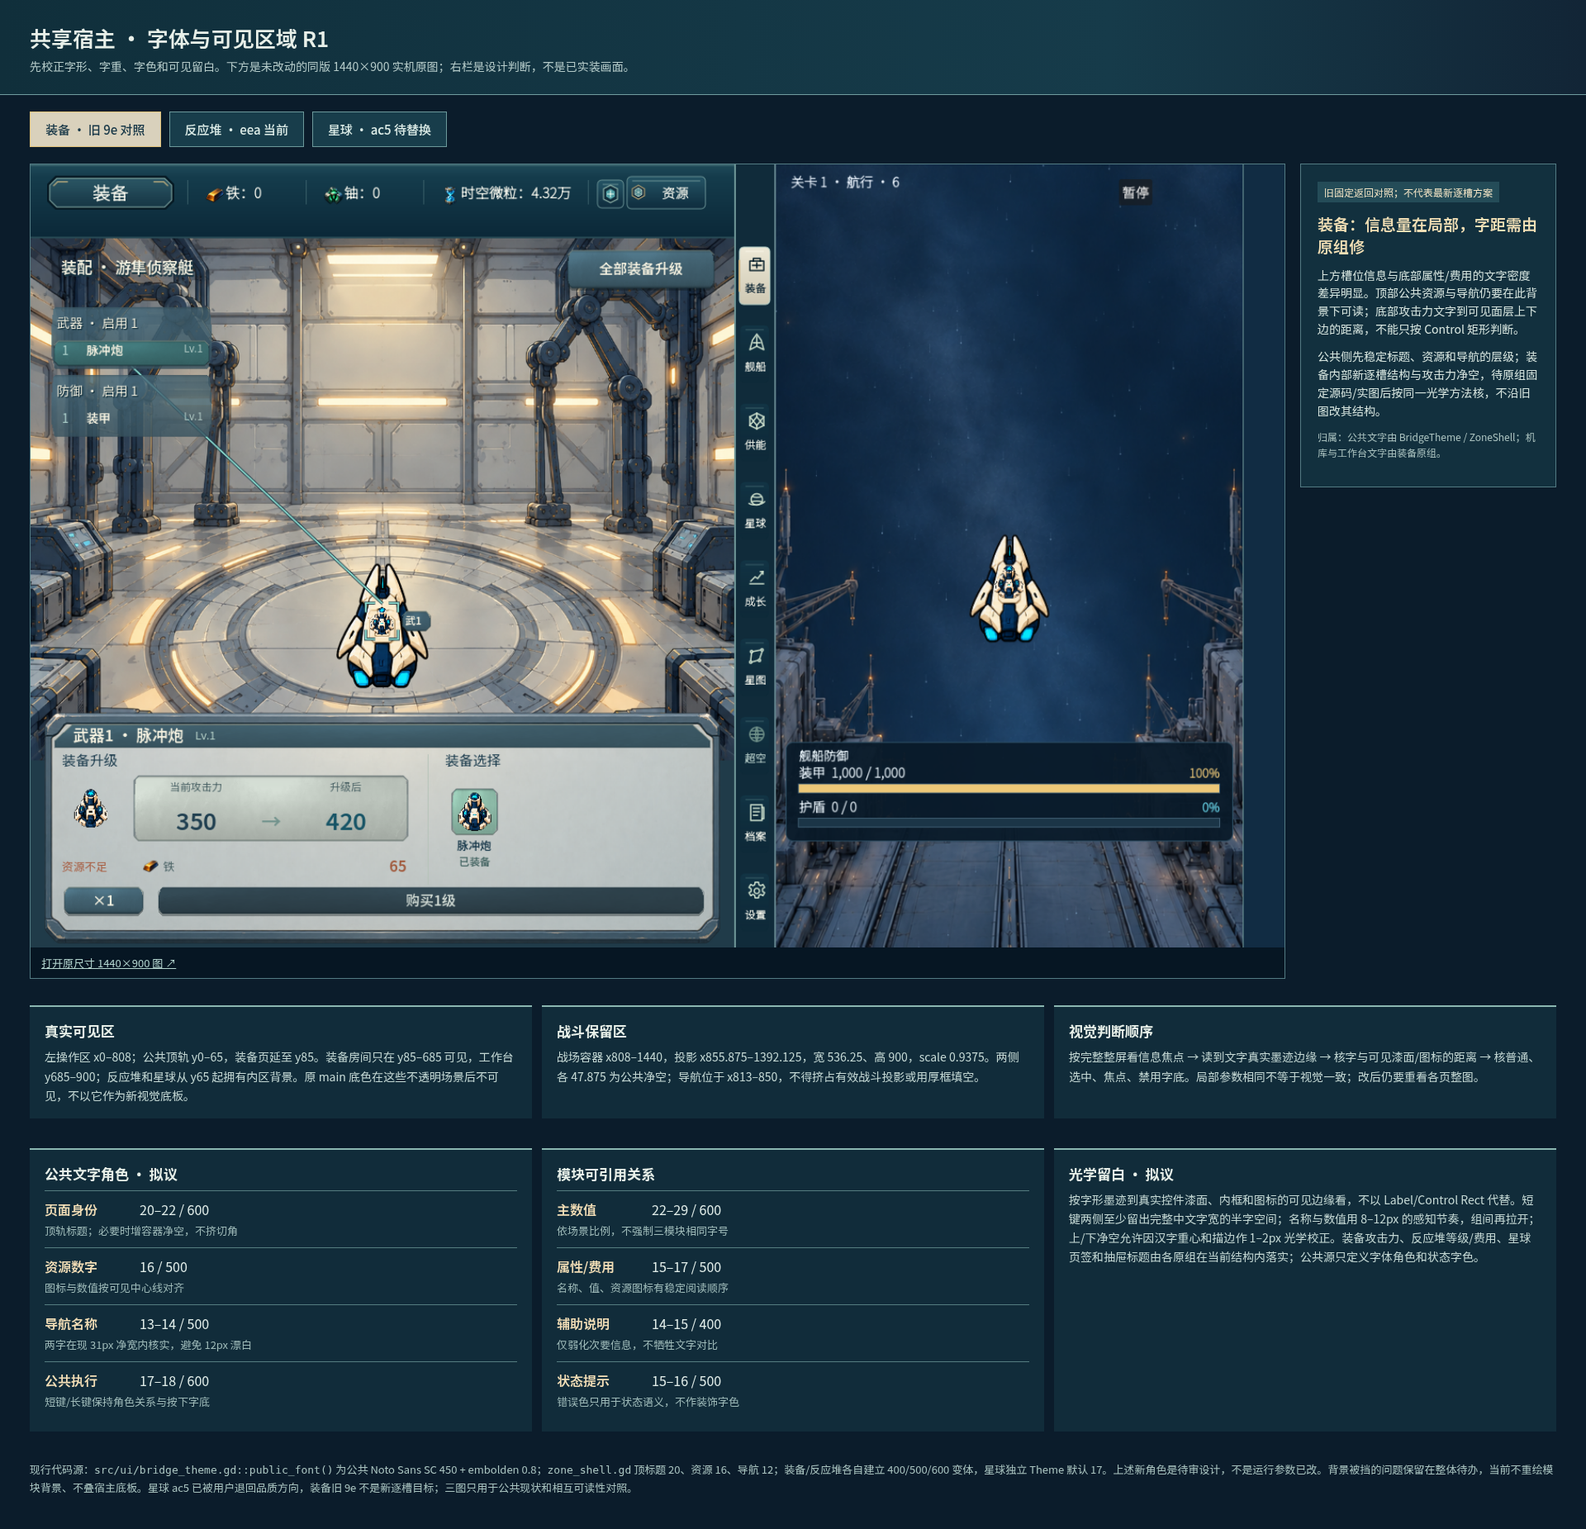
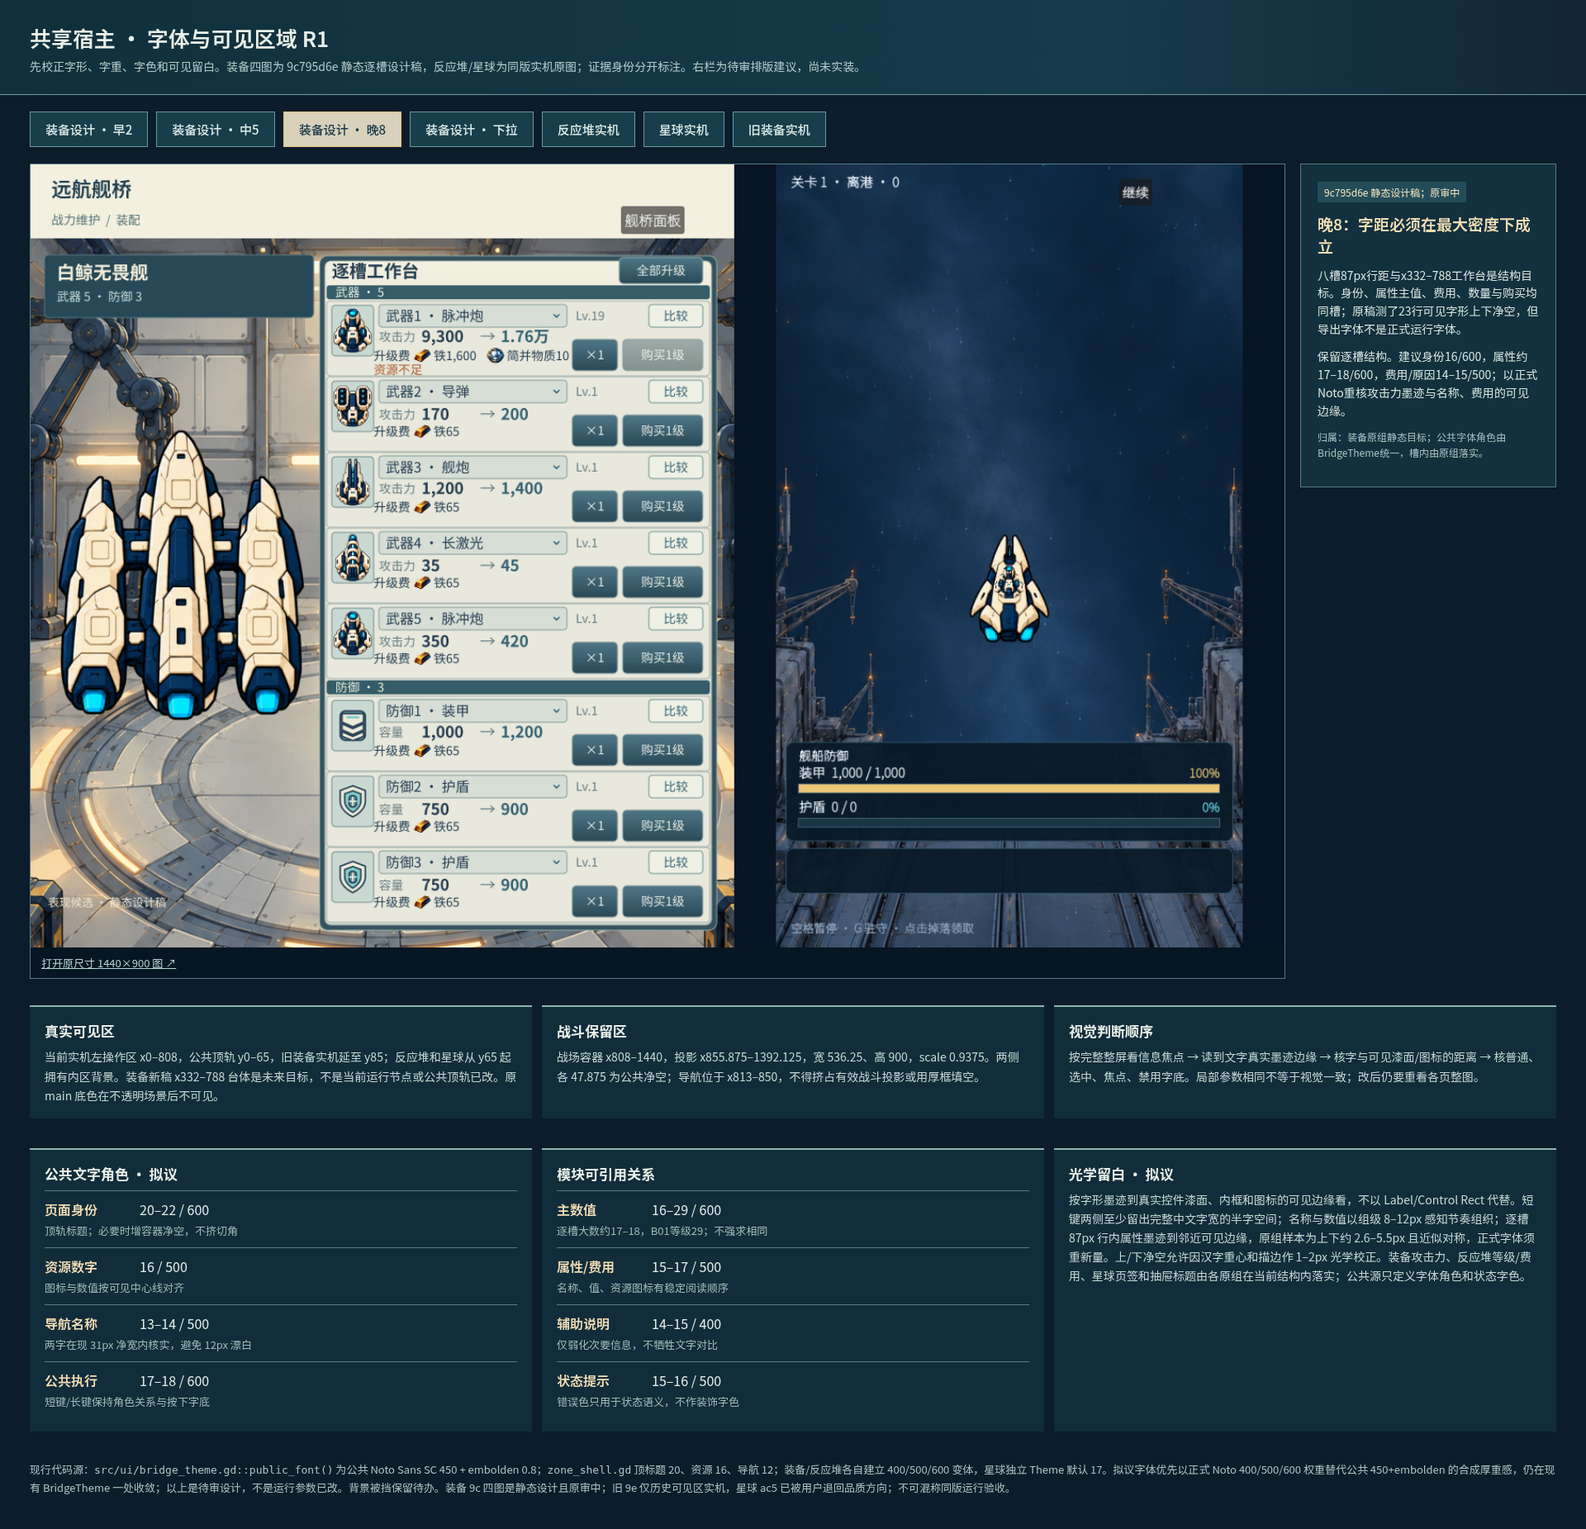
Reference current slot workbench design in typography study

diff --git a/space-battleship/docs/ui-redesign-plan/shared-host-shell/runtime-clear-zone/evidence/typography-visible-area-r1.html b/space-battleship/docs/ui-redesign-plan/shared-host-shell/runtime-clear-zone/evidence/typography-visible-area-r1.html
@@ -4,14 +4,22 @@
 <style>
 @font-face{font-family:SC;src:url('../../../../../assets/fonts/NotoSansSC.ttf')}*{box-sizing:border-box}body{margin:0;background:#0b1c2b;color:#e8f0e9;font-family:SC,'Noto Sans SC',sans-serif}header{padding:27px 36px 22px;background:linear-gradient(90deg,#102f3b,#163b4a 70%,#122536);border-bottom:1px solid #719da0}h1{font-size:26px;font-weight:600;margin:0 0 6px}p{margin:0;line-height:1.55}.sub{color:#b5cbc9;font-size:14px}.tabs{display:flex;gap:10px;padding:20px 36px 10px}.tabs button{font:500 15px SC,sans-serif;color:#dcece7;background:#183d4b;border:1px solid #6c999b;padding:10px 18px;cursor:pointer}.tabs button[aria-selected=true]{background:#d9d1bc;color:#173747;border-color:#e3c37a}.wrap{display:grid;grid-template-columns:minmax(580px,1fr) 310px;gap:18px;padding:10px 36px 32px}.screen{background:#061623;border:1px solid #537b83;min-width:0}.screen img{width:100%;height:auto;display:block}.screen a{display:block;color:#b5d6d0;padding:9px 13px;font-size:13px}.side{background:#12303e;border:1px solid #537b83;padding:20px;align-self:start}.side h2{font-size:19px;margin:0 0 12px;font-weight:600;color:#f2dfb5}.side p{font-size:14px;color:#d7e5df;margin:0 0 12px}.side .small{font-size:12px;color:#aac2bf}.tag{display:inline-block;background:#244c58;color:#f1e3c4;padding:4px 8px;margin-bottom:12px;font-size:12px}.grid{display:grid;grid-template-columns:repeat(3,minmax(0,1fr));gap:12px;margin:0 36px 36px}.card{background:#112c3a;border-top:2px solid #8bb7b1;padding:16px 18px}.card h3{font-size:17px;margin:0 0 8px}.card p{font-size:14px;color:#c4d8d4;line-height:1.65}.role{border-top:1px solid #557d80;padding:10px 0}.role b{display:inline-block;width:115px;font-weight:600;color:#f4dfb7}.role span{color:#e2eeea}.role em{font-style:normal;color:#9fbbb9;font-size:13px}.foot{margin:0 36px 40px;color:#aac4c0;font-size:13px;line-height:1.6}a{color:#b5d6d0}@media(max-width:1020px){.wrap{grid-template-columns:1fr}.grid{grid-template-columns:1fr}.side{order:2}}
 </style>
-<header><h1>共享宿主 · 字体与可见区域 R1</h1><p class="sub">先校正字形、字重、字色和可见留白。下方是未改动的同版 1440×900 实机原图；右栏是设计判断，不是已实装画面。</p></header>
-<nav class="tabs"><button data-view="equipment" aria-selected="true">装备 · 旧 9e 对照</button><button data-view="reactor">反应堆 · eea 当前</button><button data-view="planet">星球 · ac5 待替换</button></nav>
-<div class="wrap"><div class="screen"><img id="shot" src="eea-combo-equipment-1440x900.png" width="1440" height="900" alt="装备页完整实机图"><a id="open" href="eea-combo-equipment-1440x900.png" target="_blank">打开原尺寸 1440×900 图 ↗</a></div><aside class="side"><span class="tag" id="status">旧固定返回对照；不代表最新逐槽方案</span><h2 id="heading">装备：信息量在局部，字距需由原组修</h2><p id="observation">上方槽位信息与底部属性/费用的文字密度差异明显。顶部公共资源与导航仍要在此背景下可读；底部攻击力文字到可见面层上下边的距离，不能只按 Control 矩形判断。</p><p id="proposal">公共侧先稳定标题、资源和导航的层级；装备内部新逐槽结构与攻击力净空，待原组固定源码/实图后按同一光学方法核，不沿旧图改其结构。</p><p class="small" id="owner">归属：公共文字由 BridgeTheme / ZoneShell；机库与工作台文字由装备原组。</p></aside></div>
-<div class="grid"><section class="card"><h3>真实可见区</h3><p>左操作区 x0–808；公共顶轨 y0–65，装备页延至 y85。装备房间只在 y85–685 可见，工作台 y685–900；反应堆和星球从 y65 起拥有内区背景。原 main 底色在这些不透明场景后不可见，不以它作为新视觉底板。</p></section><section class="card"><h3>战斗保留区</h3><p>战场容器 x808–1440，投影 x855.875–1392.125，宽 536.25、高 900，scale 0.9375。两侧各 47.875 为公共净空；导航位于 x813–850，不得挤占有效战斗投影或用厚框填空。</p></section><section class="card"><h3>视觉判断顺序</h3><p>按完整整屏看信息焦点 → 读到文字真实墨迹边缘 → 核字与可见漆面/图标的距离 → 核普通、选中、焦点、禁用字底。局部参数相同不等于视觉一致；改后仍要重看各页整图。</p></section></div>
-<div class="grid"><section class="card"><h3>公共文字角色 · 拟议</h3><div class="role"><b>页面身份</b><span>20–22 / 600</span><br><em>顶轨标题；必要时增容器净空，不挤切角</em></div><div class="role"><b>资源数字</b><span>16 / 500</span><br><em>图标与数值按可见中心线对齐</em></div><div class="role"><b>导航名称</b><span>13–14 / 500</span><br><em>两字在现 31px 净宽内核实，避免 12px 漂白</em></div><div class="role"><b>公共执行</b><span>17–18 / 600</span><br><em>短键/长键保持角色关系与按下字底</em></div></section><section class="card"><h3>模块可引用关系</h3><div class="role"><b>主数值</b><span>22–29 / 600</span><br><em>依场景比例，不强制三模块相同字号</em></div><div class="role"><b>属性/费用</b><span>15–17 / 500</span><br><em>名称、值、资源图标有稳定阅读顺序</em></div><div class="role"><b>辅助说明</b><span>14–15 / 400</span><br><em>仅弱化次要信息，不牺牲文字对比</em></div><div class="role"><b>状态提示</b><span>15–16 / 500</span><br><em>错误色只用于状态语义，不作装饰字色</em></div></section><section class="card"><h3>光学留白 · 拟议</h3><p>按字形墨迹到真实控件漆面、内框和图标的可见边缘看，不以 Label/Control Rect 代替。短键两侧至少留出完整中文字宽的半字空间；名称与数值用 8–12px 的感知节奏，组间再拉开；上/下净空允许因汉字重心和描边作 1–2px 光学校正。装备攻击力、反应堆等级/费用、星球页签和抽屉标题由各原组在当前结构内落实；公共源只定义字体角色和状态字色。</p></section></div>
-<p class="foot">现行代码源：<code>src/ui/bridge_theme.gd::public_font()</code> 为公共 Noto Sans SC 450 + embolden 0.8；<code>zone_shell.gd</code> 顶标题 20、资源 16、导航 12；装备/反应堆各自建立 400/500/600 变体，星球独立 Theme 默认 17。上述新角色是待审设计，不是运行参数已改。背景被挡的问题保留在整体待办，当前不重绘模块背景、不叠宿主底板。星球 ac5 已被用户退回品质方向，装备旧 9e 不是新逐槽目标；三图只用于公共现状和相互可读性对照。</p>
+<header><h1>共享宿主 · 字体与可见区域 R1</h1><p class="sub">先校正字形、字重、字色和可见留白。装备四图为 9c795d6e 静态逐槽设计稿，反应堆/星球为同版实机原图；证据身份分开标注。右栏为待审排版建议，尚未实装。</p></header>
+<nav class="tabs"><button data-view="equip_early">装备设计 · 早2</button><button data-view="equip_middle">装备设计 · 中5</button><button data-view="equip_late" aria-selected="true">装备设计 · 晚8</button><button data-view="equip_dropdown">装备设计 · 下拉</button><button data-view="reactor">反应堆实机</button><button data-view="planet">星球实机</button><button data-view="equipment_history">旧装备实机</button></nav>
+<div class="wrap"><div class="screen"><img id="shot" src="equipment-design-9c-03-late-eight.png" width="1440" height="900" alt="装备逐槽晚8静态设计稿"><a id="open" href="equipment-design-9c-03-late-eight.png" target="_blank">打开原尺寸 1440×900 图 ↗</a></div><aside class="side"><span class="tag" id="status">9c795d6e 静态设计稿；原装备审进行中</span><h2 id="heading">装备晚8：字距必须在最大密度下成立</h2><p id="observation">八槽 87px 行距与 x332–788 工作台是结构目标。身份、属性主值、费用、数量与购买均同槽；原稿测了 23 行可见字形上下净空，但导出字体不是正式运行字体。</p><p id="proposal">保留逐槽结构。建议身份 16/600，属性约 17–18/600，费用/原因 14–15/500；以正式 Noto 重核攻击力墨迹与名称、费用的可见边缘。</p><p class="small" id="owner">归属：装备原组静态目标；公共字体角色由 BridgeTheme 统一，槽内由原组落实。</p></aside></div>
+<div class="grid"><section class="card"><h3>真实可见区</h3><p>当前实机左操作区 x0–808，公共顶轨 y0–65，旧装备实机延至 y85；反应堆和星球从 y65 起拥有内区背景。装备新稿 x332–788 台体是未来目标，不是当前运行节点或公共顶轨已改。原 main 底色在不透明场景后不可见。</p></section><section class="card"><h3>战斗保留区</h3><p>战场容器 x808–1440，投影 x855.875–1392.125，宽 536.25、高 900，scale 0.9375。两侧各 47.875 为公共净空；导航位于 x813–850，不得挤占有效战斗投影或用厚框填空。</p></section><section class="card"><h3>视觉判断顺序</h3><p>按完整整屏看信息焦点 → 读到文字真实墨迹边缘 → 核字与可见漆面/图标的距离 → 核普通、选中、焦点、禁用字底。局部参数相同不等于视觉一致；改后仍要重看各页整图。</p></section></div>
+<div class="grid"><section class="card"><h3>公共文字角色 · 拟议</h3><div class="role"><b>页面身份</b><span>20–22 / 600</span><br><em>顶轨标题；必要时增容器净空，不挤切角</em></div><div class="role"><b>资源数字</b><span>16 / 500</span><br><em>图标与数值按可见中心线对齐</em></div><div class="role"><b>导航名称</b><span>13–14 / 500</span><br><em>两字在现 31px 净宽内核实，避免 12px 漂白</em></div><div class="role"><b>公共执行</b><span>17–18 / 600</span><br><em>短键/长键保持角色关系与按下字底</em></div></section><section class="card"><h3>模块可引用关系</h3><div class="role"><b>主数值</b><span>16–29 / 600</span><br><em>逐槽大数约17–18，B01等级29；不强求相同</em></div><div class="role"><b>属性/费用</b><span>15–17 / 500</span><br><em>名称、值、资源图标有稳定阅读顺序</em></div><div class="role"><b>辅助说明</b><span>14–15 / 400</span><br><em>仅弱化次要信息，不牺牲文字对比</em></div><div class="role"><b>状态提示</b><span>15–16 / 500</span><br><em>错误色只用于状态语义，不作装饰字色</em></div></section><section class="card"><h3>光学留白 · 拟议</h3><p>按字形墨迹到真实控件漆面、内框和图标的可见边缘看，不以 Label/Control Rect 代替。短键两侧至少留出完整中文字宽的半字空间；名称与数值以组级 8–12px 感知节奏组织；逐槽 87px 行内属性墨迹到邻近可见边缘，原组样本为上下约 2.6–5.5px 且近似对称，正式字体须重新量。上/下净空允许因汉字重心和描边作 1–2px 光学校正。装备攻击力、反应堆等级/费用、星球页签和抽屉标题由各原组在当前结构内落实；公共源只定义字体角色和状态字色。</p></section></div>
+<p class="foot">现行代码源：<code>src/ui/bridge_theme.gd::public_font()</code> 为公共 Noto Sans SC 450 + embolden 0.8；<code>zone_shell.gd</code> 顶标题 20、资源 16、导航 12；装备/反应堆各自建立 400/500/600 变体，星球独立 Theme 默认 17。拟议字体优先以正式 Noto 400/500/600 权重替代公共 450+embolden 的合成厚重感，仍在现有 BridgeTheme 一处收敛；以上是待审设计，不是运行参数已改。背景被挡保留待办。装备 9c 四图是静态设计且原审中；旧 9e 仅历史可见区实机，星球 ac5 已被用户退回品质方向；不可混称同版运行验收。</p>
 <script>
-const data={equipment:{file:'eea-combo-equipment-1440x900.png',alt:'装备页完整实机图',status:'旧固定返回对照；不代表最新逐槽方案',heading:'装备：信息量在局部，字距需由原组修',observation:'上方槽位信息与底部属性/费用的文字密度差异明显。顶部公共资源与导航仍要在此背景下可读；底部攻击力文字到可见面层上下边的距离，不能只按 Control 矩形判断。',proposal:'公共侧先稳定标题、资源和导航的层级；装备内部新逐槽结构与攻击力净空，待原组固定源码/实图后按同一光学方法核，不沿旧图改其结构。',owner:'归属：公共文字由 BridgeTheme / ZoneShell；机库与工作台文字由装备原组。'},reactor:{file:'eea-combo-reactor-max-1440x900.png',alt:'反应堆完整实机图',status:'当前 eea + 公共 e20，静态接入候选',heading:'反应堆：强主体下保住控制台阅读线',observation:'右侧等级 1 是强数值，下面的可购11与 752 铀是报价，不应被同一字号/字重拉成一团；四路百分比和倍率应是同一水平阅读带。',proposal:'公共顶轨保持与其他页相同的身份、资源、导航字阶；反应堆内部等级/费用/四路由原组按主次调字重和行内基线，不移动已审主体。',owner:'归属：顶轨/导航 BridgeTheme / ZoneShell；控制台文字与报价为反应堆原组。'},planet:{file:'eea-combo-planet-1440x900.png',alt:'星球完整实机图',status:'ac5 接入基线；用户已退回主体品质',heading:'星球：页签与场景共存，品质待原组重做',observation:'公共顶轨与星球内页签都在上方同屏；页签文字必须在场景高亮下可辨，但不应与公共标题争焦点。下方星球主体当前仅是接入基线。',proposal:'公共侧保持标题/资源/导航的一致层级。页签/抽屉/主体等由星球原组按已认可概念继续；本图不能被当成最终视觉目标。',owner:'归属：公共顶轨由 BridgeTheme / ZoneShell；页签、抽屉和星球主体为星球原组。'}};
+const data={
+ equip_early:{file:'equipment-design-9c-01-early-two.png',alt:'装备逐槽早2静态设计稿',status:'9c795d6e 静态设计稿；原审中',heading:'早2：工作台随启用槽收束',observation:'一武器一防御时行组在两槽后结束，舰体仍占主景。名称、属性、费用和两键在每槽同一行。',proposal:'建议身份16/600、属性17–18/600、费用与原因14–15/500；正式Noto字形须核上下墨迹与可见行面。',owner:'归属：装备原组静态目标；公共字体角色由BridgeTheme统一。'},
+ equip_middle:{file:'equipment-design-9c-02-middle-five.png',alt:'装备逐槽中5静态设计稿',status:'9c795d6e 静态设计稿；原审中',heading:'中5：长数字与失败原因不抢主值',observation:'五槽同宽同行高，9.28万→57.6万、MAX可购0及失败提示同屏。数字宽度与原因字底需维持层级。',proposal:'主值优先于说明；金额与资源图标成组、失败原因保持可读。勿以Rect相等代替上下墨迹净空。',owner:'归属：装备原组槽内文字/报价；公共顶轨与导航由整体组。'},
+ equip_late:{file:'equipment-design-9c-03-late-eight.png',alt:'装备逐槽晚8静态设计稿',status:'9c795d6e 静态设计稿；原审中',heading:'晚8：字距必须在最大密度下成立',observation:'八槽87px行距与x332–788工作台是结构目标。身份、属性主值、费用、数量与购买均同槽；原稿测了23行可见字形上下净空，但导出字体不是正式运行字体。',proposal:'保留逐槽结构。建议身份16/600，属性约17–18/600，费用/原因14–15/500；以正式Noto重核攻击力墨迹与名称、费用的可见边缘。',owner:'归属：装备原组静态目标；公共字体角色由BridgeTheme统一，槽内由原组落实。'},
+ equip_dropdown:{file:'equipment-design-9c-04-local-dropdown.png',alt:'装备同槽下拉静态设计稿',status:'9c795d6e 静态设计稿；原审中',heading:'同槽下拉：浮层层级不能吞掉原行文字',observation:'护盾/装甲候选原地展开，底层槽位置不动；候选身份、容量、现装状态与比较入口需有阅读顺序。',proposal:'候选名称16/600，容量15–16/500，状态14–15/500；正式字体核浮层与邻槽边界。',owner:'归属：装备原组静态目标，非运行交互测试。'},
+ equipment_history:{file:'eea-combo-equipment-1440x900.png',alt:'旧9e装备历史实机图',status:'历史9e实机；仅公共区域测量',heading:'旧装备实机：只核当前公共可见区',observation:'旧双栏工作台不是当前逐槽目标；此图仍显示现行公共顶轨、资源、导航与旧背景遮挡。',proposal:'仅把公共字阶/可见区测量带到新结构；不按此图修逐槽攻击力间距。',owner:'归属：历史接入证据，不代表新稿运行。'},
+ reactor:{file:'eea-combo-reactor-max-1440x900.png',alt:'反应堆完整实机图',status:'当前eea+公共e20，静态接入候选',heading:'反应堆：强主体下保住控制台阅读线',observation:'右侧等级1是强数值，可购11与752铀是报价；四路百分比和倍率应同一水平阅读带。',proposal:'顶轨身份/资源/导航字阶跨页一致；控制台由原组按主次调字重和基线。',owner:'归属：顶轨BridgeTheme/ZoneShell，控制台反应堆原组。'},
+ planet:{file:'eea-combo-planet-1440x900.png',alt:'星球完整实机图',status:'ac5接入基线；用户退回主体品质',heading:'星球：页签与场景共存，品质待原组重做',observation:'公共顶轨与星球页签同屏；页签文字需可辨，但不应与公共标题争焦点。主体仍只是接入基线。',proposal:'公共侧保持标题/资源/导航层级。页签/抽屉/主体由星球原组按既有概念继续。',owner:'归属：公共顶轨BridgeTheme/ZoneShell；页签与主体星球原组。'}
+};
 for(const button of document.querySelectorAll('[data-view]')) button.onclick=()=>{for(const b of document.querySelectorAll('[data-view]'))b.setAttribute('aria-selected',b===button?'true':'false');const x=data[button.dataset.view];document.getElementById('shot').src=x.file;document.getElementById('shot').alt=x.alt;document.getElementById('open').href=x.file;for(const k of ['status','heading','observation','proposal','owner'])document.getElementById(k).textContent=x[k]};
 </script>
 </html>
